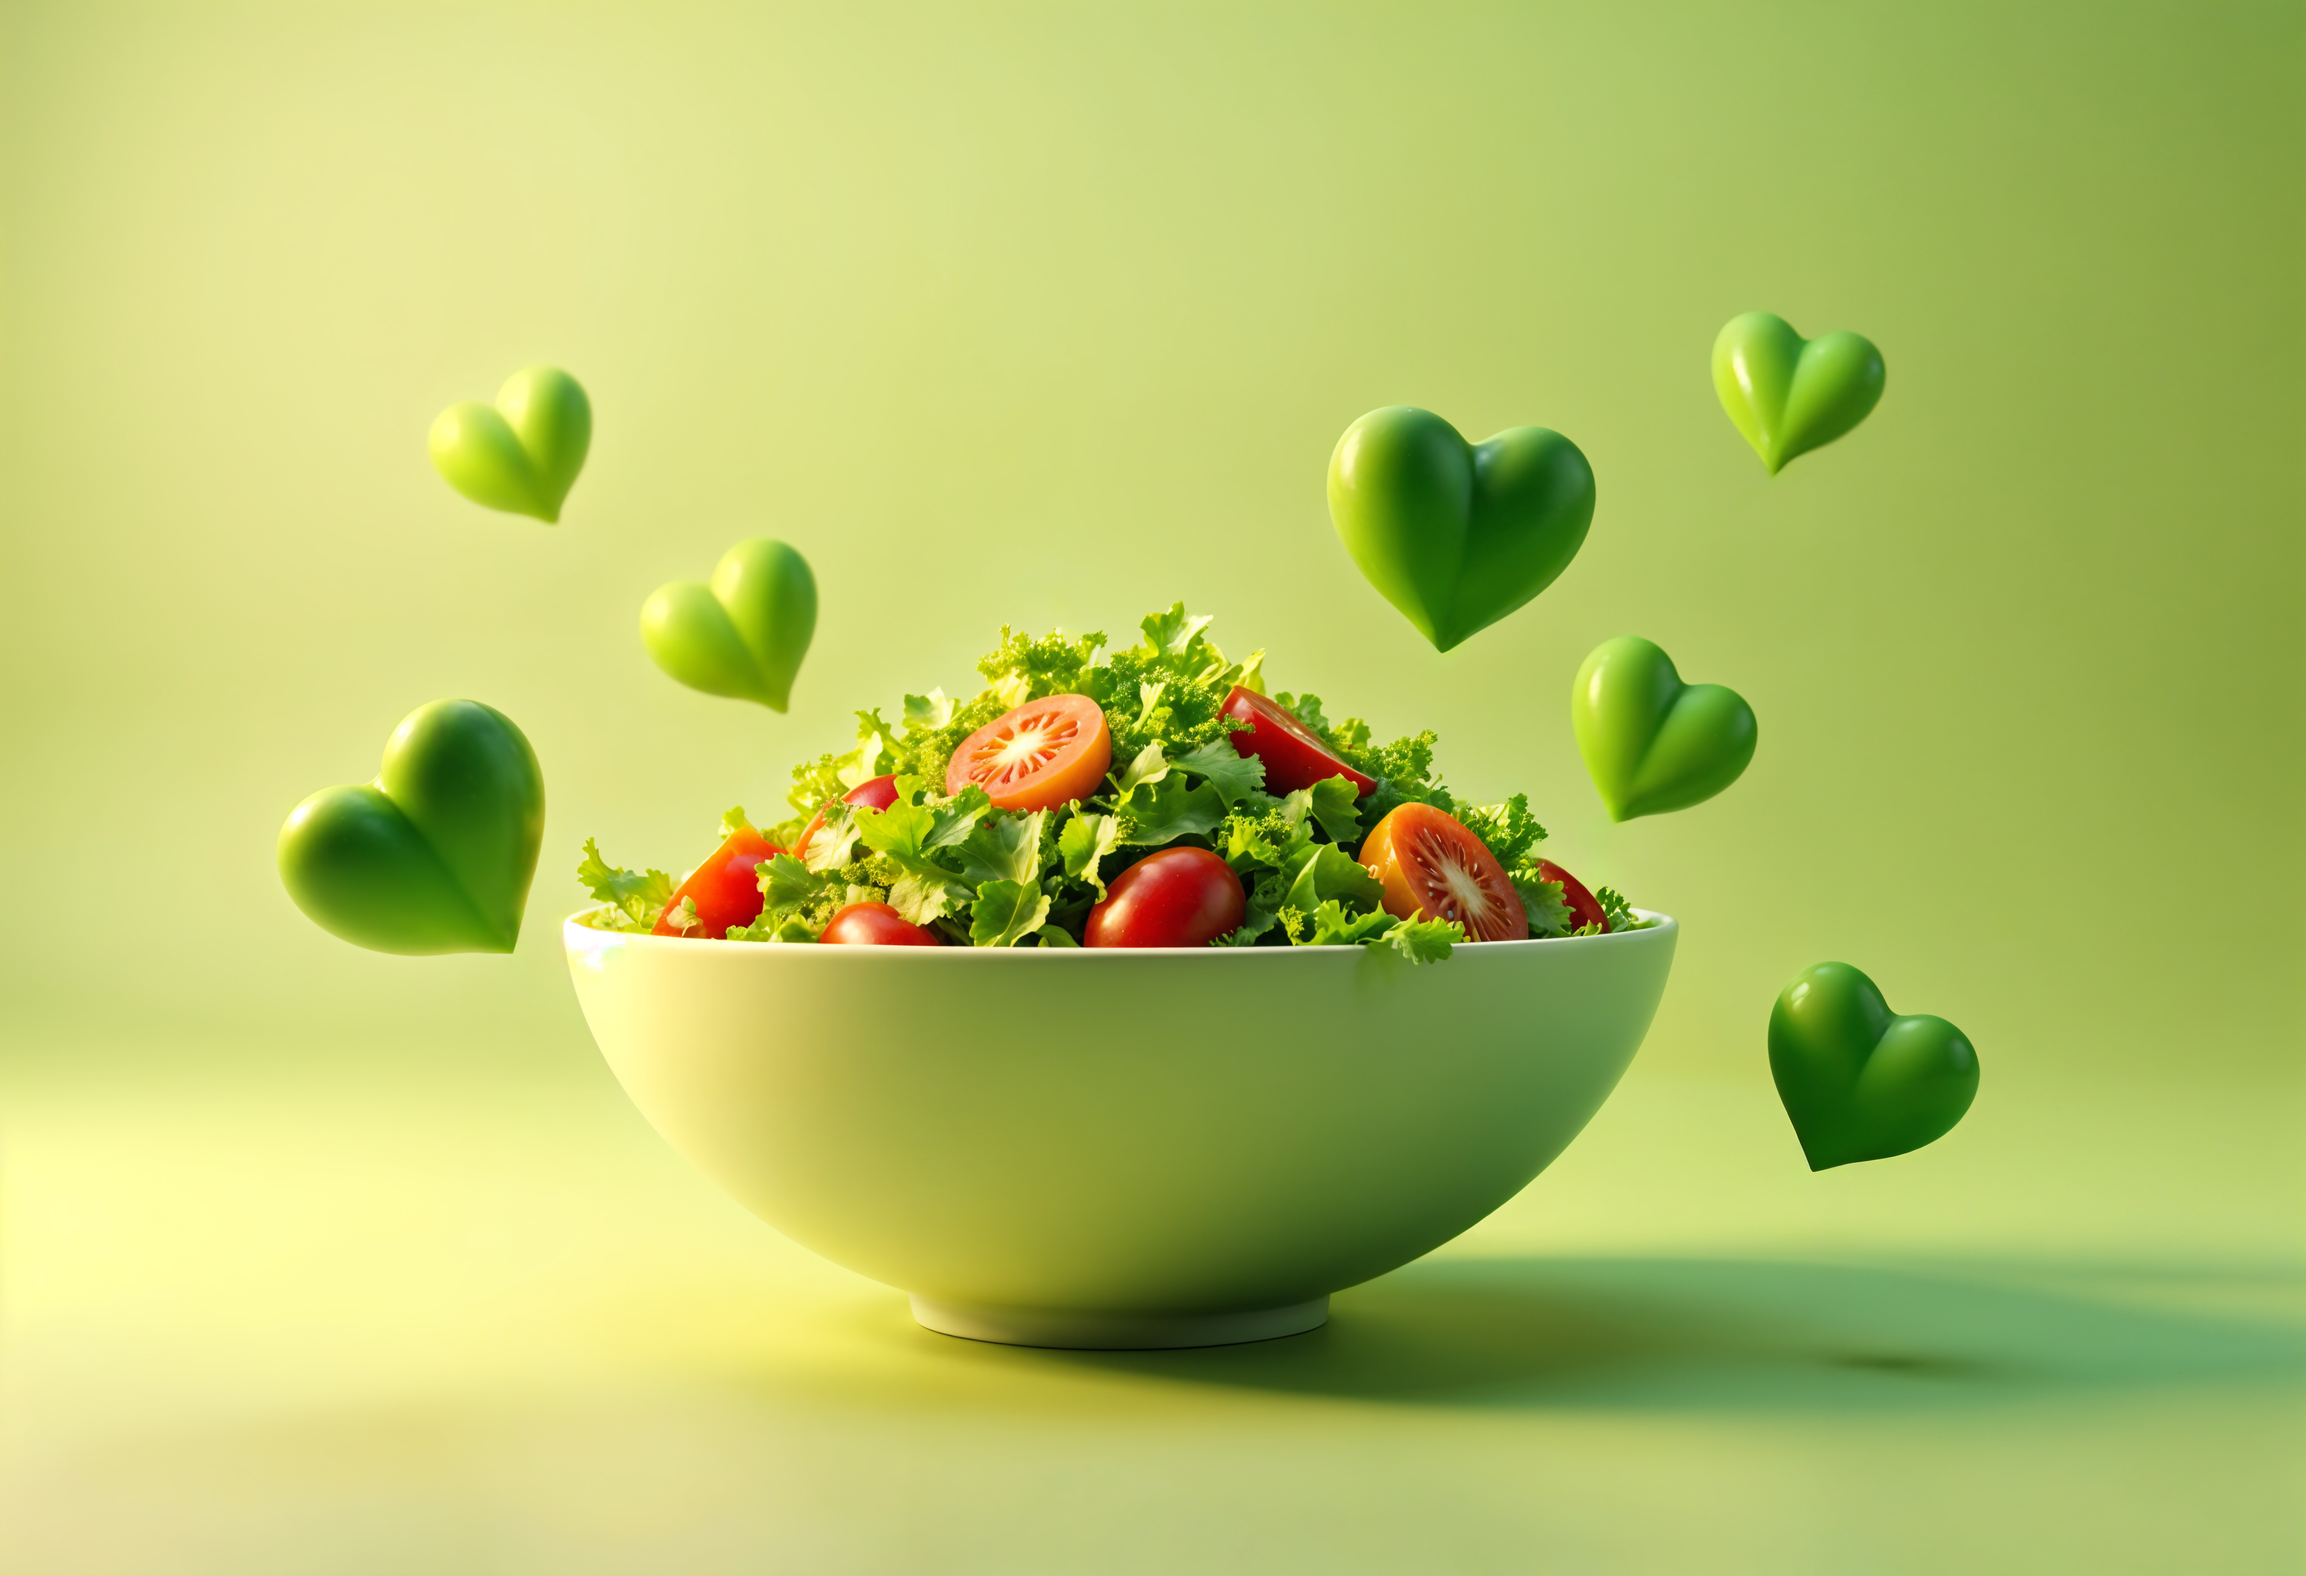
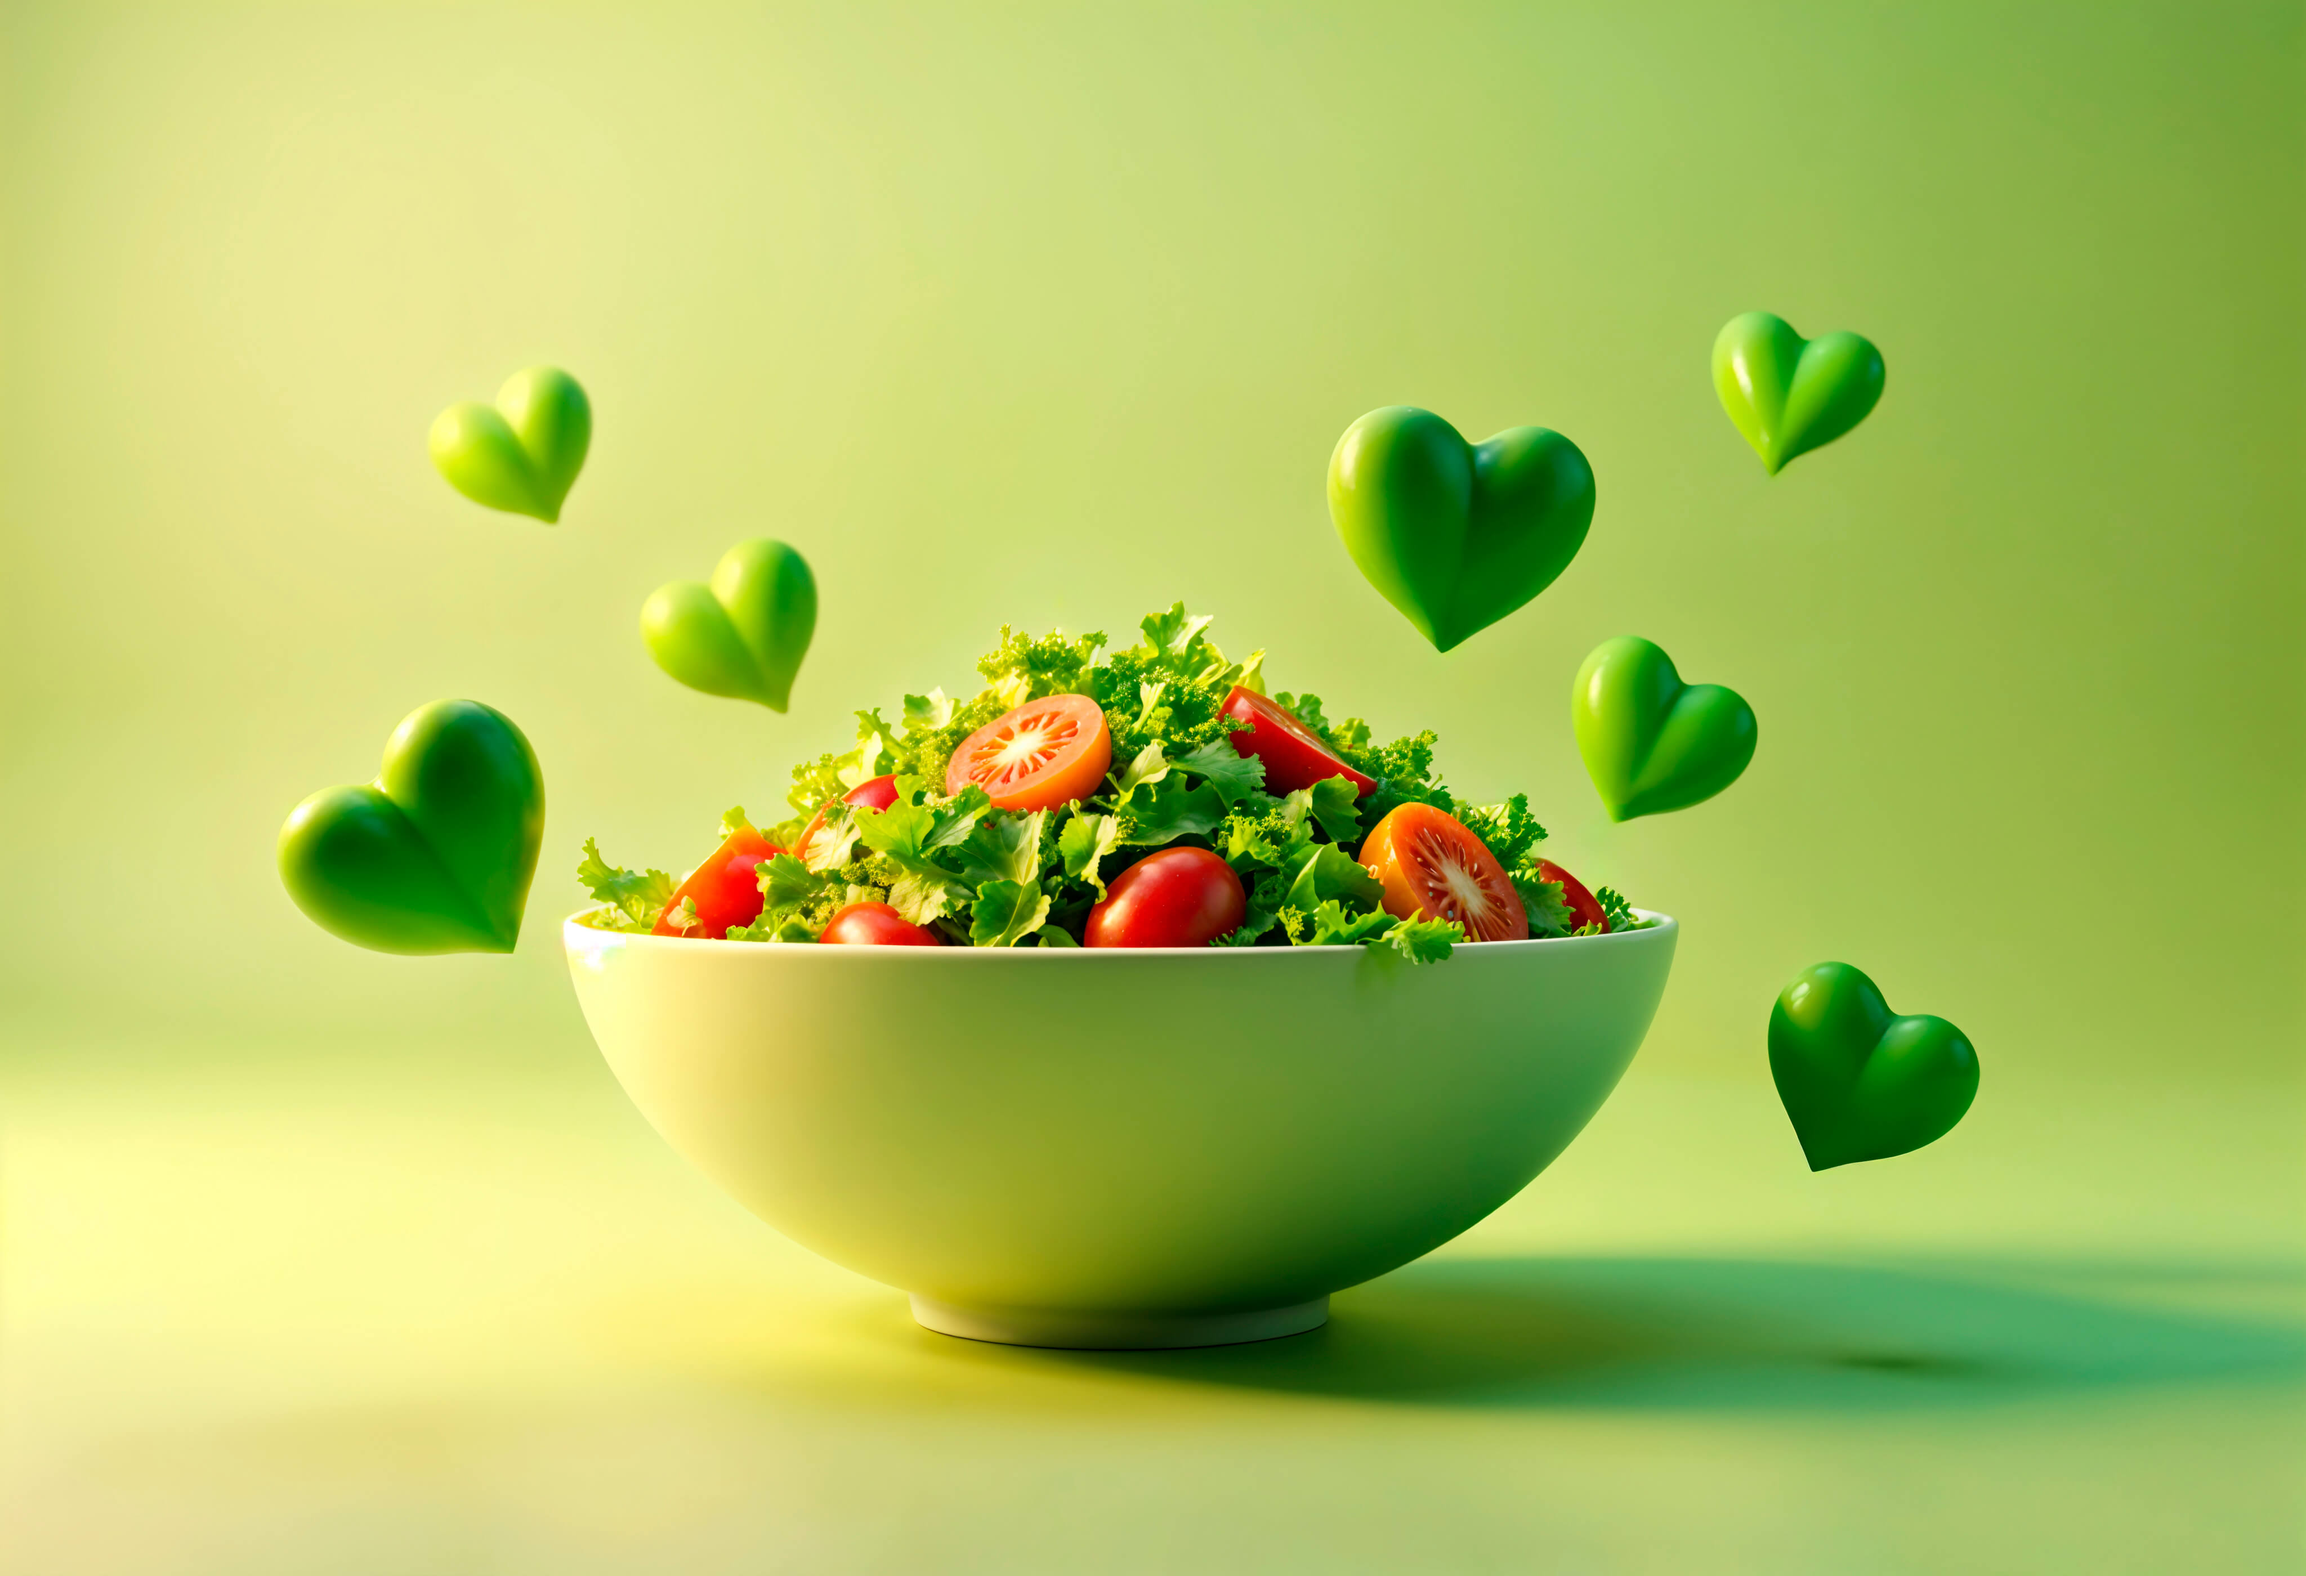
final

diff --git a/src/pages/Home.jsx b/src/pages/Home.jsx
@@ -79,7 +79,7 @@ const Home = () => {
     {/* Image Section */}
     <div className="w-full md:w-1/2 flex justify-center">
       <img
-        src="drink.jpg"
+        src="drink.webp"
         alt="Delicious Meal"
         className="  w-full max-w-md h-auto object-cover"
       />
